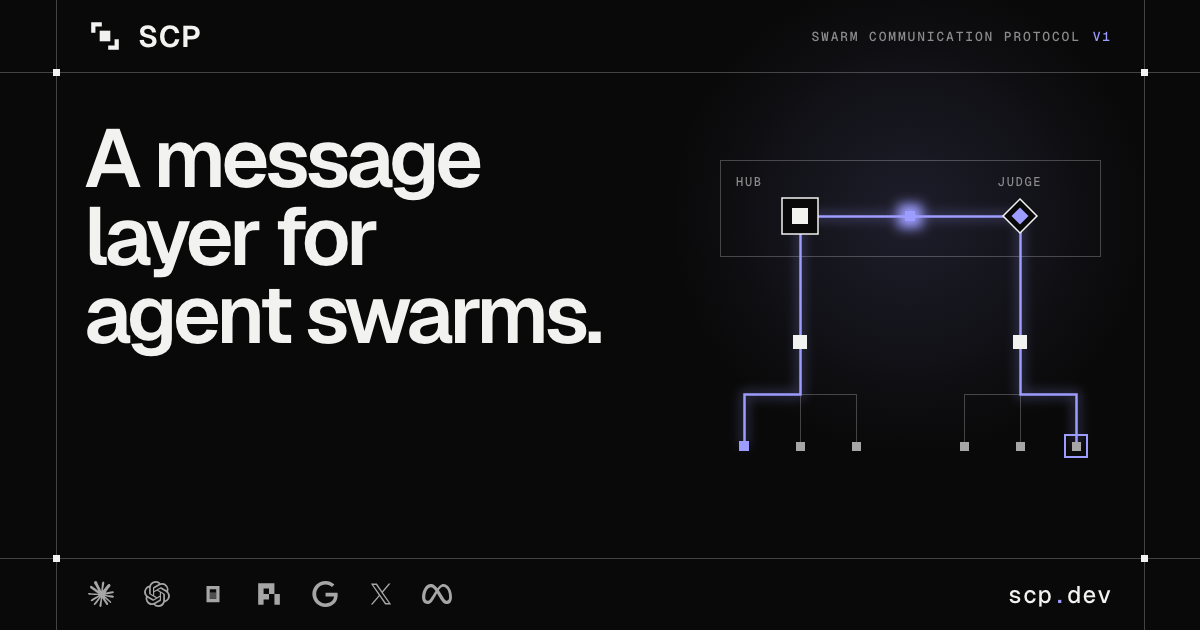
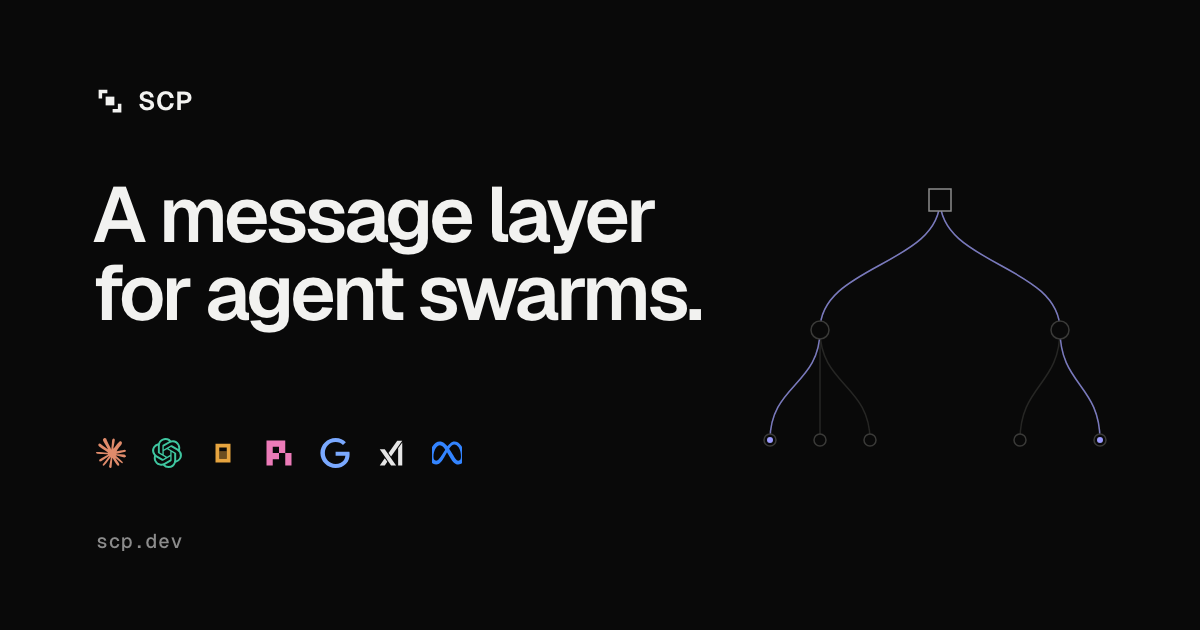
fix(web): clean share image (#105)
## TL;DR

<!-- owner -->

## Summary

- The share image is just the wordmark, the headline, the supported harness marks and a quiet tree, with no frame, glow or labels

🤖 Generated with [Claude Code](https://claude.com/claude-code)

diff --git a/apps/web/scripts/og.ts b/apps/web/scripts/og.ts
@@ -11,110 +11,81 @@ import { HARNESS, HARNESSES, type Harness } from "../app/harnesses";
 
 const W = 1200;
 const H = 630;
-const C = {
-  bg: "#090909",
-  surface: "#111111",
-  fg: "#f2f2f0",
-  ink: "#a6a6a6",
-  dim: "#8c8c8c",
-  faint: "#575757",
-  line: "rgb(255 255 255 / 0.24)",
-  acc: "#9d9cff",
+const C = { bg: "#090909", fg: "#f2f2f0", dim: "#8c8c8c", node: "#3a3a38", edge: "#262624", acc: "#9d9cff" };
+const TINT: Partial<Record<Harness, string>> = {
+  claude: "#e08b6b",
+  codex: "#3fc6a0",
+  opencode: "#e6a43f",
+  pi: "#ec7bb8",
+  agy: "#7aa9ff",
+  grok: "#e6e6e6",
+  muse: "#3384ff",
 };
 const ROW = HARNESSES.filter((h) => h !== "gemini");
 
+function mark(h: Harness, size: number): string {
+  const m = HARNESS[h];
+  const k = ((m.scale ?? 1) * size) / 24;
+  const o = (size - 24 * k) / 2;
+  const parts = m.parts.map((p) => `<path d="${p.d}"${p.evenodd ? ' fill-rule="evenodd"' : ""}${p.alpha ? ` opacity="${p.alpha}"` : ""}/>`).join("");
+  return `<svg width="${size}" height="${size}" viewBox="0 0 ${size} ${size}"><g transform="translate(${o} ${o}) scale(${k})" fill="${TINT[h] ?? C.dim}">${parts}</g></svg>`;
+}
+
 type Pt = { x: number; y: number };
 
-const crisp = (v: number) => Math.round(v) + 0.5;
-const path = (pts: Pt[]) => pts.map((p, i) => `${i ? "L" : "M"}${crisp(p.x)} ${crisp(p.y)}`).join("");
-const sq = (p: Pt, s: number, attrs: string) => `<rect x="${Math.round(p.x - s / 2)}" y="${Math.round(p.y - s / 2)}" width="${s}" height="${s}" ${attrs}/>`;
-const label = (text: string, x: number, y: number, anchor = "start", color = C.dim) =>
-  `<text x="${x}" y="${y}" text-anchor="${anchor}" fill="${color}" class="lbl">${text.toUpperCase()}</text>`;
-const elbow = (p: Pt, n: Pt): Pt[] => {
-  const mid = Math.round((p.y + n.y) / 2);
-  return p.x === n.x ? [p, n] : [p, { x: p.x, y: mid }, { x: n.x, y: mid }, n];
-};
-
-const box = { x: 720, y: 160, w: 380, h: 96 };
-const hub = { x: 800, y: 216 };
-const gate = { x: 1020, y: 216 };
-const ROOT = 342;
-const LEAF = 446;
-const trees = [hub, gate].map((top) => {
-  const root = { x: top.x, y: ROOT };
-  return { top, root, leaves: [-56, 0, 56].map((dx) => ({ x: top.x + dx, y: LEAF })) };
-});
-const [a, b] = trees;
-const route = [...elbow(a.root, a.leaves[0]).reverse(), hub, gate, ...elbow(b.root, b.leaves[2]).slice(1)];
-
 function graph(): string {
-  const wires = trees.flatMap((t) => [path([t.top, t.root]), ...t.leaves.map((l) => path(elbow(t.root, l)))]).join("");
-  const agents = trees.flatMap((t) => [sq(t.root, 14, `fill="${C.fg}"`), ...t.leaves.map((l) => sq(l, 9, `fill="${C.ink}"`))]).join("");
-  const head = { x: Math.round((hub.x + gate.x) / 2), y: hub.y };
-  return `
-  <svg width="${W}" height="${H}" viewBox="0 0 ${W} ${H}" xmlns="http://www.w3.org/2000/svg">
-    <defs>
-      <filter id="glow" x="-50%" y="-50%" width="200%" height="200%"><feGaussianBlur stdDeviation="6"/></filter>
-      <radialGradient id="halo"><stop offset="0" stop-color="${C.acc}" stop-opacity="0.14"/><stop offset="1" stop-color="${C.acc}" stop-opacity="0"/></radialGradient>
-    </defs>
-    <circle cx="${head.x}" cy="${head.y}" r="240" fill="url(#halo)"/>
-    <rect x="${crisp(box.x)}" y="${crisp(box.y)}" width="${box.w}" height="${box.h}" fill="none" stroke="${C.line}"/>
-    ${label("hub", box.x + 16, box.y + 26)}
-    <path d="${wires}" fill="none" stroke="${C.line}"/>
-    <path d="${path(route)}" fill="none" stroke="${C.acc}" stroke-width="7" opacity="0.3" filter="url(#glow)"/>
-    <path d="${path(route)}" fill="none" stroke="${C.acc}" stroke-width="2.5"/>
-    ${agents}
-    ${sq(hub, 36, `fill="${C.bg}" stroke="${C.fg}" stroke-width="1.5"`)}${sq(hub, 16, `fill="${C.fg}"`)}
-    <g transform="translate(${gate.x} ${gate.y}) rotate(45)"><rect x="-12" y="-12" width="24" height="24" fill="${C.bg}" stroke="${C.fg}" stroke-width="1.5"/><rect x="-6" y="-6" width="12" height="12" fill="${C.acc}"/></g>
-    ${label("judge", gate.x, box.y + 26, "middle")}
-    ${sq(b.leaves[2], 22, `fill="none" stroke="${C.acc}" stroke-width="2"`)}
-    ${sq(a.leaves[0], 10, `fill="${C.acc}"`)}
-    ${sq(head, 24, `fill="${C.acc}" filter="url(#glow)"`)}${sq(head, 10, `fill="${C.acc}"`)}
+  const hub: Pt = { x: 940, y: 200 };
+  const roots: Pt[] = [
+    { x: 820, y: 330 },
+    { x: 1060, y: 330 },
+  ];
+  const kids: Pt[][] = [
+    [
+      { x: 770, y: 440 },
+      { x: 820, y: 440 },
+      { x: 870, y: 440 },
+    ],
+    [
+      { x: 1020, y: 440 },
+      { x: 1100, y: 440 },
+    ],
+  ];
+  const curve = (a: Pt, b: Pt) => `M${a.x} ${a.y}C${a.x} ${(a.y + b.y) / 2} ${b.x} ${(a.y + b.y) / 2} ${b.x} ${b.y}`;
+  const edges = [...roots.map((r) => curve(hub, r)), ...roots.flatMap((r, i) => kids[i].map((k) => curve(r, k)))];
+  const route = [curve(kids[0][0], roots[0]), curve(roots[0], hub), curve(hub, roots[1]), curve(roots[1], kids[1][1])];
+  const dot = (p: Pt, r: number) => `<circle cx="${p.x}" cy="${p.y}" r="${r}" fill="${C.bg}" stroke="${C.node}" stroke-width="1.5"/>`;
+  return `<svg class="g" width="${W}" height="${H}" viewBox="0 0 ${W} ${H}">
+    ${edges.map((d) => `<path d="${d}" fill="none" stroke="${C.edge}" stroke-width="1.5"/>`).join("")}
+    ${route.map((d) => `<path d="${d}" fill="none" stroke="${C.acc}" stroke-opacity=".7" stroke-width="1.5"/>`).join("")}
+    <rect x="${hub.x - 11}" y="${hub.y - 11}" width="22" height="22" fill="${C.bg}" stroke="${C.dim}" stroke-width="1.5"/>
+    ${roots.map((r) => dot(r, 9)).join("")}
+    ${kids
+      .flat()
+      .map((k) => dot(k, 6))
+      .join("")}
+    <circle cx="${kids[0][0].x}" cy="${kids[0][0].y}" r="3" fill="${C.acc}"/>
+    <circle cx="${kids[1][1].x}" cy="${kids[1][1].y}" r="3" fill="${C.acc}"/>
   </svg>`;
 }
 
-function icon(h: Harness, size: number): string {
-  const v = 24 / (HARNESS[h].scale ?? 1);
-  const o = 12 - v / 2;
-  const parts = HARNESS[h].parts
-    .map((p) => `<path d="${p.d}"${p.alpha ? ` fill-opacity="${p.alpha}"` : ""}${p.evenodd ? ` fill-rule="evenodd"` : ""}/>`)
-    .join("");
-  return `<svg width="${size}" height="${size}" viewBox="${o} ${o} ${v} ${v}" overflow="visible" fill="${C.ink}" style="position:static">${parts}</svg>`;
-}
-
-function frame(): string {
-  const rails = [56, W - 56];
-  const rules = [72, H - 72];
-  const lines = [...rails.map((x) => `M${crisp(x)} 0V${H}`), ...rules.map((y) => `M0 ${crisp(y)}H${W}`)].join("");
-  const marks = rails.flatMap((x) => rules.map((y) => sq({ x, y }, 7, `fill="${C.fg}"`))).join("");
-  return `<svg width="${W}" height="${H}" viewBox="0 0 ${W} ${H}" xmlns="http://www.w3.org/2000/svg"><path d="${lines}" stroke="${C.line}" fill="none"/>${marks}</svg>`;
-}
-
 function html(fonts: { sans: string; mono: string }): string {
-  const icons = ROW.map((h) => icon(h, 26)).join("");
   return `<!doctype html><html><head><meta charset="utf-8"><style>
 @font-face { font-family: Geist; src: url("${fonts.sans}") format("woff2"); font-weight: 100 900; }
 @font-face { font-family: GeistMono; src: url("${fonts.mono}") format("woff2"); font-weight: 100 900; }
 * { margin: 0; padding: 0; box-sizing: border-box; }
 html, body { width: ${W}px; height: ${H}px; overflow: hidden; background: ${C.bg}; color: ${C.fg}; -webkit-font-smoothing: antialiased; }
 body { position: relative; font-family: Geist, sans-serif; }
-svg { position: absolute; inset: 0; }
-.lbl { font: 500 12px GeistMono, monospace; letter-spacing: 0.14em; }
-.brand { position: absolute; left: 88px; top: 0; height: 72px; display: flex; align-items: center; gap: 16px; font-size: 30px; font-weight: 640; letter-spacing: 0.02em; }
-.ver { position: absolute; right: 88px; top: 0; height: 72px; display: flex; align-items: center; font: 500 13px GeistMono, monospace; letter-spacing: 0.14em; color: ${C.dim}; text-transform: uppercase; }
-.ver b { color: ${C.acc}; font-weight: 500; margin-left: 12px; }
-.title { position: absolute; left: 84px; top: 120px; width: 600px; font-size: 82px; line-height: 0.95; font-weight: 600; letter-spacing: -0.05em; text-wrap: balance; }
-.foot { position: absolute; left: 88px; right: 88px; bottom: 0; height: 72px; display: flex; align-items: center; justify-content: space-between; }
-.icons { display: flex; align-items: center; gap: 30px; }
-.url { font: 500 24px GeistMono, monospace; letter-spacing: 0.02em; }
-.url i { font-style: normal; color: ${C.acc}; }
+svg.g { position: absolute; inset: 0; }
+.brand { position: absolute; left: 96px; top: 84px; display: flex; align-items: center; gap: 14px; font-size: 26px; font-weight: 640; letter-spacing: 0.02em; }
+.title { position: absolute; left: 92px; top: 176px; width: 620px; font-size: 78px; line-height: 1; font-weight: 600; letter-spacing: -0.045em; text-wrap: balance; }
+.marks { position: absolute; left: 96px; top: 438px; display: flex; gap: 26px; align-items: center; }
+.url { position: absolute; left: 96px; bottom: 76px; font: 500 20px GeistMono, monospace; color: ${C.dim}; letter-spacing: 0.02em; }
 </style></head><body>
-${frame()}
 ${graph()}
-<div class="brand"><svg width="34" height="34" viewBox="0 0 32 32" fill="${C.fg}" style="position:static"><path d="M3 3h10v4H7v6H3zM29 29H19v-4h6v-6h4z"/><rect x="11" y="11" width="10" height="10"/></svg>SCP</div>
-<div class="ver">Swarm Communication Protocol<b>v1</b></div>
+<div class="brand"><svg width="28" height="28" viewBox="0 0 32 32" fill="${C.fg}"><path d="M3 3h10v4H7v6H3zM29 29H19v-4h6v-6h4z"/><rect x="11" y="11" width="10" height="10"/></svg>SCP</div>
 <h1 class="title">${HERO.title}</h1>
-<div class="foot"><div class="icons">${icons}</div><div class="url">${new URL(SITE).host.replace(".", "<i>.</i>")}</div></div>
+<div class="marks">${ROW.map((h) => mark(h, 30)).join("")}</div>
+<div class="url">${new URL(SITE).host}</div>
 </body></html>`;
 }
 
@@ -129,7 +100,7 @@ if (!existsSync(chrome)) throw new Error(`no Chrome at ${chrome}; set CHROME`);
 
 const dir = mkdtempSync(join(tmpdir(), "scp-og-"));
 const page = join(dir, "og.html");
-const out = join(import.meta.dirname, "../public/og.png");
+const out = process.env.OUT ?? join(import.meta.dirname, "../public/og.png");
 writeFileSync(page, html(fonts));
 const run = spawnSync(
   chrome,
@@ -144,7 +115,7 @@ const run = spawnSync(
     `--screenshot=${out}`,
     pathToFileURL(page).href,
   ],
-  { stdio: "inherit" },
+  { stdio: "ignore" },
 );
 if (process.env.OG_KEEP) console.log(page);
 else rmSync(dir, { recursive: true, force: true });
